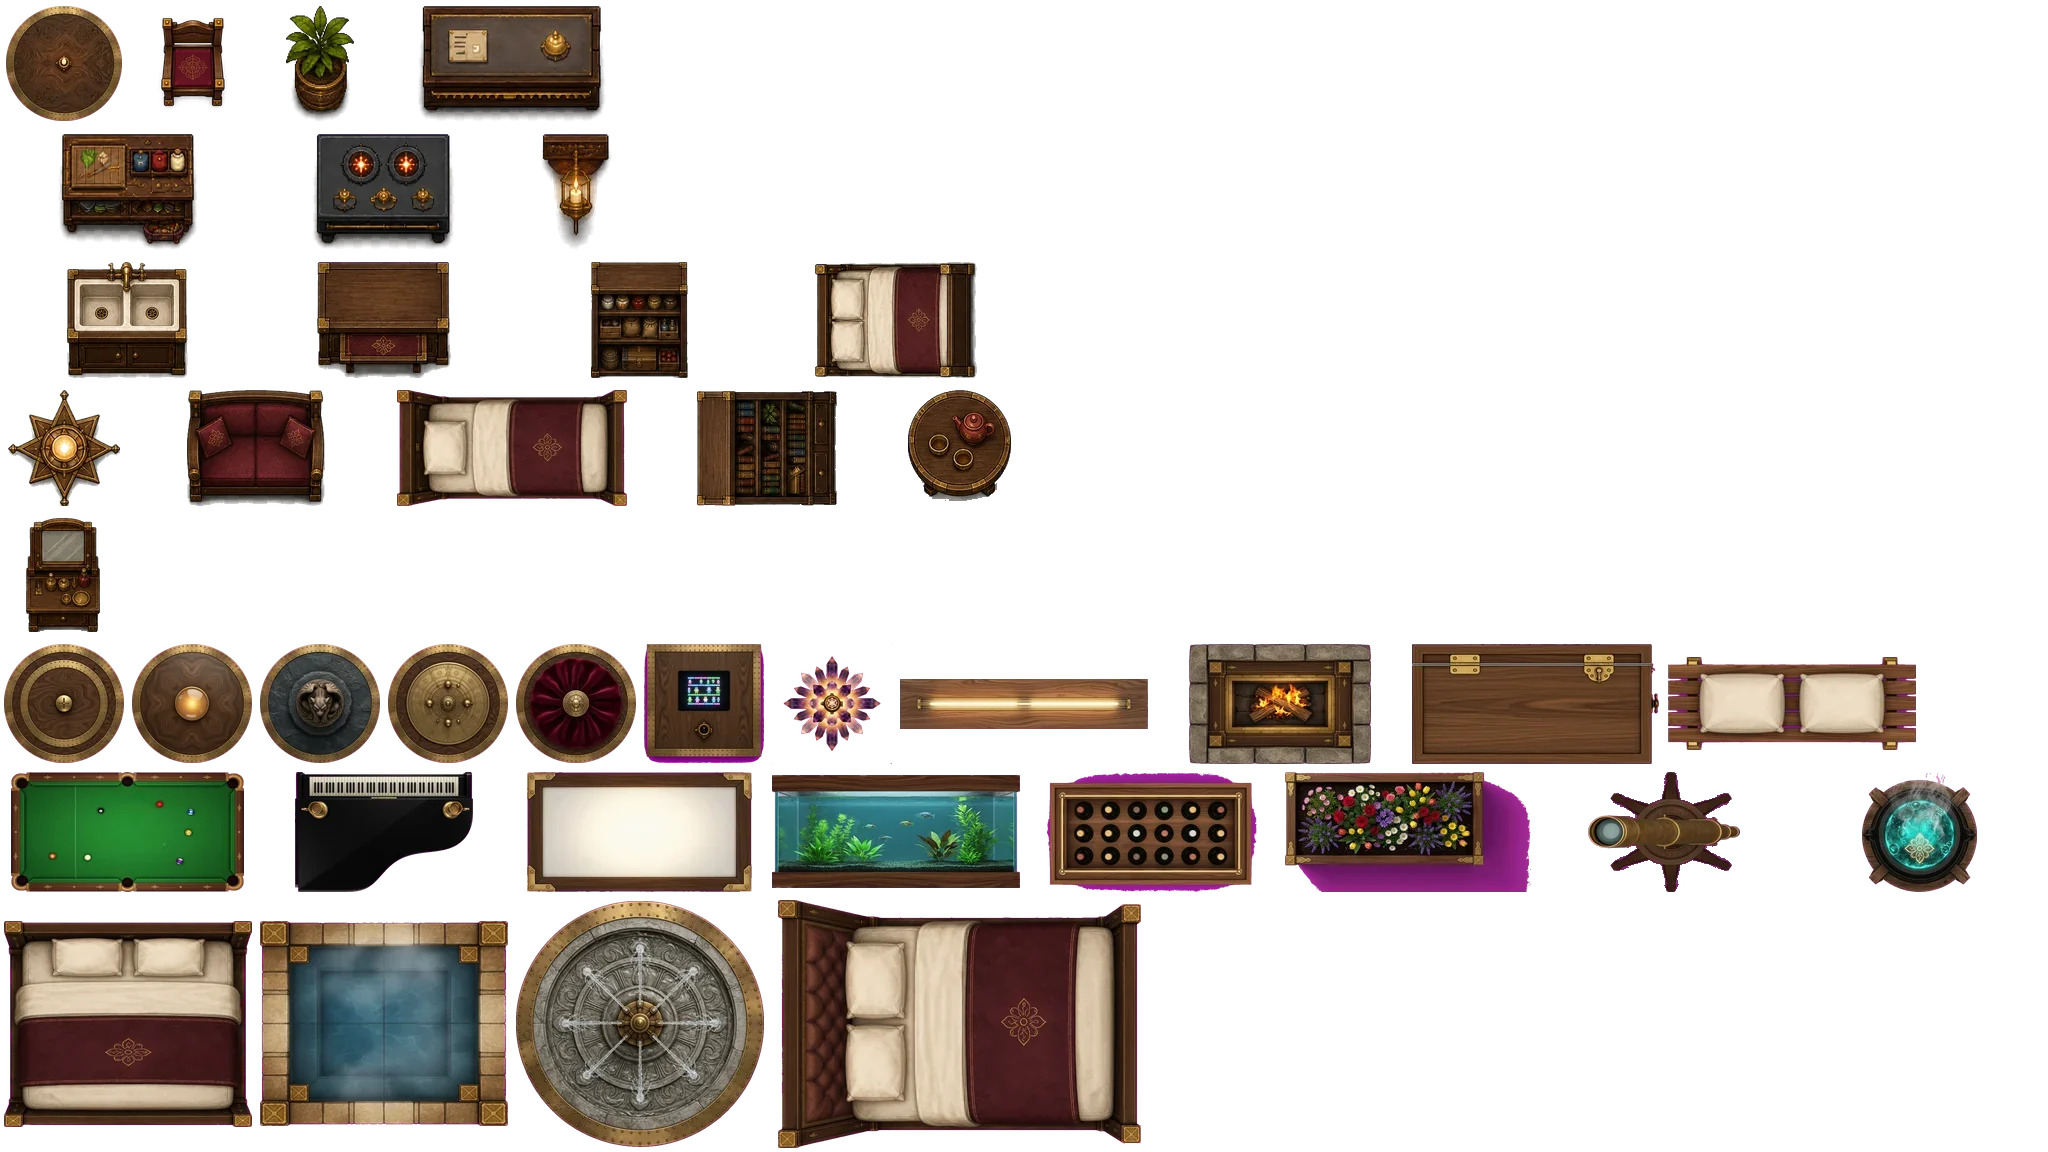
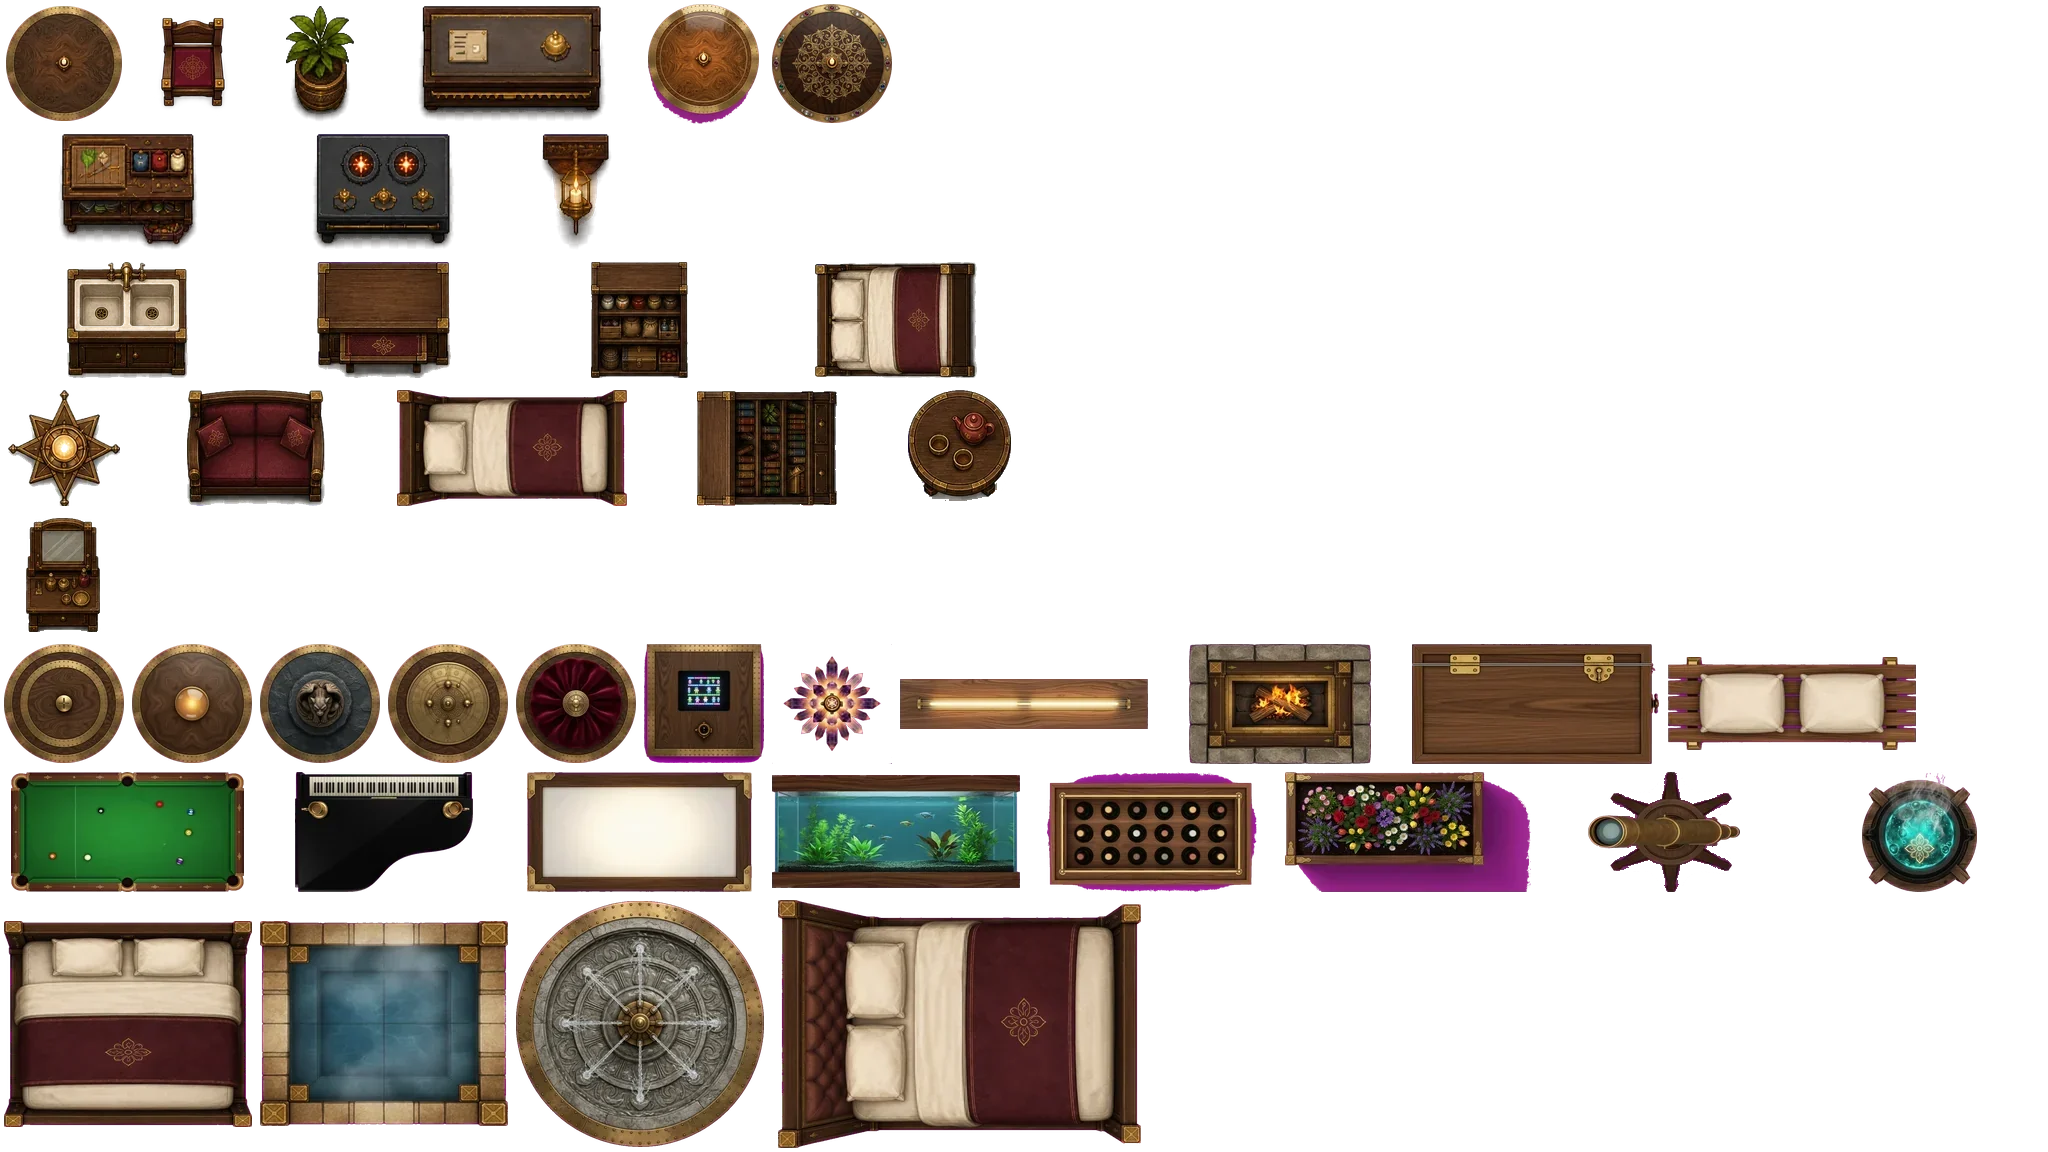
fix: upgrade HD furniture on the sprite, not with gold frames
Quality II/III now swaps to the same-design deluxe table textures, or adds a silhouette sheen and candle glow on the original HD art. Room upgrades stay on the HD floor/beam materials. The square brass corner overlay is gone.

Changed region(s): [[0.3125, 0.0, 0.4375, 0.125]]

diff --git a/game.js b/game.js
@@ -1,6 +1,6 @@
 import * as PIXI from 'pixi.js';
 import { ACC_NAMES,                  appKey, avatarURL, defaultAppearance, drawAvatar, drawSprite, normalizeApp,            PRESETS, randomAppearance, THEMES } from './src/chargen.js';
-import { furnPix, dirtPix, doorPix, equipAnimPix, hdQualityHardware, platePix, ROOM_WALL, T, wallPix } from './src/furniture.js';
+import { furnPix, dirtPix, doorPix, equipAnimPix, platePix, ROOM_WALL, T, wallPix } from './src/furniture.js';
 
 const ACTOR_S = 0.5;          // 世界里的小人按 50% 画（美术画布 64×72 → 场内 32×36）
 import { FLOOR_VARIANTS, floorVariant, glowPix, lightPoolPix, rugTile, wallDecoPix } from './src/floor.js';
@@ -113,7 +113,8 @@ function actorTexture(app            , dir        , pose      , frame        , c
 }
 const furnTex = new Map                      ();
 const FURNITURE_ATLAS_FRAMES = {
-  table: [0, 0, 128, 128], chair: [128, 0, 128, 128], plant: [256, 0, 128, 128],
+  table: [0, 0, 128, 128], table2: [640, 0, 128, 128], table3: [768, 0, 128, 128],
+  chair: [128, 0, 128, 128], plant: [256, 0, 128, 128],
   desk: [384, 0, 256, 128], prep: [0, 128, 256, 128], stove: [256, 128, 256, 128],
   sconce: [512, 128, 128, 128],
   sink: [0, 256, 256, 128], pass: [256, 256, 256, 128], shelf: [512, 256, 256, 128], bed: [768, 256, 256, 128],
@@ -129,10 +130,11 @@ const FURNITURE_ATLAS_FRAMES = {
   doublebed: [0, 896, 256, 256], pool: [256, 896, 256, 256], fountain: [512, 896, 256, 256],
   kingbed: [768, 896, 384, 256],
 };
-function furnitureAtlasTexture(kind, atlas) {
-  const frame = FURNITURE_ATLAS_FRAMES[kind];
+function furnitureAtlasTexture(kind, atlas, quality = 1) {
+  // 高清升级：有同款豪华帧就换贴图（table2/table3），否则回落基础帧再叠轮廓光。
+  const frame = (quality >= 2 && FURNITURE_ATLAS_FRAMES[kind + quality]) || FURNITURE_ATLAS_FRAMES[kind];
   if (!atlas || !frame) return null;
-  const key = `atlas|${kind}`;
+  const key = `atlas|${kind}|${quality}|${frame.join(',')}`;
   let t = furnTex.get(key);
   if (!t) {
     t = new PIXI.Texture({ source: atlas.source, frame: new PIXI.Rectangle(...frame) });
@@ -141,7 +143,7 @@ function furnitureAtlasTexture(kind, atlas) {
   return t;
 }
 function furnTexture(kind        , q        , accent = '#C9922F', atlas = null)               {
-  const hd = furnitureAtlasTexture(kind, atlas);
+  const hd = furnitureAtlasTexture(kind, atlas, q);
   if (hd) return hd;
   const key = kind + q + accent;
   let t = furnTex.get(key);
@@ -2279,35 +2281,7 @@ class Game                    {
           wall.rect(cx * T + 8, cy * T + 8, 3, 3).fill(0xF3D98A);
         }
       }
-      if (r.quality >= 2 && this.materialPack === 'hd') {
-        const rail = beamStrip(r.x + r.y);
-        const gold = r.quality >= 3 ? 0xF3D98A : 0xC9922F;
-        const placeRail = (x, y, rot, len = T) => {
-          if (!rail) return;
-          const trim = new PIXI.Sprite(rail);
-          trim.anchor.set(0.5); trim.width = len; trim.height = r.quality >= 3 ? 4 : 3;
-          trim.rotation = rot; trim.x = x; trim.y = y; trim.tint = gold;
-          this.wallSprites.addChild(trim);
-        };
-        for (let x = r.x; x < r.x + r.w; x++) {
-          if ((!this.tavern.roomAt(x, r.y - 1) || gap(x, r.y, 0, -1)) && !gap(x, r.y, 0, -1)) placeRail(x * T + T / 2, r.y * T + 10, 0);
-          if ((!this.tavern.roomAt(x, r.y + r.h) || gap(x, r.y + r.h - 1, 0, 1)) && !gap(x, r.y + r.h - 1, 0, 1)) placeRail(x * T + T / 2, (r.y + r.h) * T - 10, 0);
-        }
-        for (let y = r.y; y < r.y + r.h; y++) {
-          if ((!this.tavern.roomAt(r.x - 1, y) || gap(r.x, y, -1, 0)) && !gap(r.x, y, -1, 0)) placeRail(r.x * T + 10, y * T + T / 2, Math.PI / 2);
-          if ((!this.tavern.roomAt(r.x + r.w, y) || gap(r.x + r.w - 1, y, 1, 0)) && !gap(r.x + r.w - 1, y, 1, 0)) placeRail((r.x + r.w) * T - 10, y * T + T / 2, Math.PI / 2);
-        }
-        if (r.quality >= 3) {
-          const boss = glowTex(7, '#F3D98A');
-          for (const [cx, cy] of [[r.x, r.y], [r.x + r.w, r.y], [r.x, r.y + r.h], [r.x + r.w, r.y + r.h]]) {
-            const med = new PIXI.Sprite(boss);
-            med.anchor.set(0.5); med.alpha = 0.9;
-            med.x = cx * T + (cx === r.x ? 10 : -10);
-            med.y = cy * T + (cy === r.y ? 10 : -10);
-            this.wallSprites.addChild(med);
-          }
-        }
-      }
+
     }
     // 门厅入口只在真正朝向室外时补门槛；与上方房间相连时由普通门系统处理。
     const e = this.tavern.entrance();
@@ -2331,10 +2305,12 @@ class Game                    {
       // 实例级微色差：同种家具不再千件一面（色相暖冷 4 档抖动）
       const jit = [0xFFFFFF, 0xF7EEE0, 0xFFF6E4, 0xEFF2F4][((f.id * 2654435761) >>> 0) % 4];
       const base = hexToNum(fstyle.furnTint);
+      const deluxeHd = hdFurniture && f.quality >= 2 && !!FURNITURE_ATLAS_FRAMES[f.kind + f.quality];
       if (hdFurniture) {
-        const qHex = f.quality >= 3 ? '#E8C070' : f.quality >= 2 ? '#F2D9A0' : '#FFFFFF';
         const styleHex = fstyle.id !== 'rustic' ? mix('#FFFFFF', fstyle.furnTint, 0.58) : '#FFFFFF';
-        const merged = mix(styleHex, qHex, f.quality >= 2 ? 0.55 : 0);
+        // 豪华帧自己已是升级材质，不再额外镀金；无豪华帧时只轻微暖一下原贴图。
+        const qHex = deluxeHd ? '#FFFFFF' : (f.quality >= 3 ? '#F0D090' : f.quality >= 2 ? '#F6E4B8' : '#FFFFFF');
+        const merged = mix(styleHex, qHex, deluxeHd ? 0 : (f.quality >= 2 ? 0.28 : 0));
         if (merged !== '#FFFFFF') sp.tint = hexToNum(merged);
       } else {
         sp.tint = (((base >> 16 & 255) * (jit >> 16 & 255) / 255) << 16) | (((base >> 8 & 255) * (jit >> 8 & 255) / 255) << 8) | Math.round((base & 255) * (jit & 255) / 255);
@@ -2350,20 +2326,28 @@ class Game                    {
       sp.zIndex = Math.round((f.y + fh) * 100) - 5;
       this.actorLayer.addChild(sp);
       this.furnSprites.push(sp);
-      if (hdFurniture && f.quality >= 2) {
-        const hwKey = `hdq|${sourceW}|${sourceH}|${f.quality}`;
-        let hwTex = this.pixTex.get(hwKey);
-        if (!hwTex) {
-          hwTex = texFromCanvas(hdQualityHardware(sourceW, sourceH, f.quality).canvas);
-          this.pixTex.set(hwKey, hwTex);
-        }
-        const hw = new PIXI.Sprite(hwTex);
-        hw.anchor.set(0.5);
-        hw.x = sp.x; hw.y = sp.y; hw.rotation = sp.rotation;
-        hw.width = sourceW * T; hw.height = sourceH * T;
-        hw.zIndex = sp.zIndex + 1;
-        this.actorLayer.addChild(hw);
-        this.furnSprites.push(hw);
+      if (hdFurniture && f.quality >= 2 && !deluxeHd) {
+        const sheen = new PIXI.Sprite(sp.texture);
+        sheen.anchor.set(0.5);
+        sheen.x = sp.x; sheen.y = sp.y; sheen.rotation = sp.rotation;
+        sheen.width = sp.width; sheen.height = sp.height;
+        sheen.blendMode = 'add';
+        sheen.tint = f.quality >= 3 ? 0xE8C070 : 0xC9A050;
+        sheen.alpha = f.quality >= 3 ? 0.22 : 0.12;
+        sheen.zIndex = sp.zIndex + 1;
+        this.actorLayer.addChild(sheen);
+        this.furnSprites.push(sheen);
+      }
+      if (hdFurniture && f.quality >= 2 && (f.kind === 'table' || f.kind === 'teatable')) {
+        const candle = new PIXI.Sprite(glowTex(12 + f.quality * 3, f.quality >= 3 ? '#F6D080' : '#E8B44A'));
+        candle.anchor.set(0.5);
+        candle.blendMode = 'add';
+        candle.alpha = f.quality >= 3 ? 0.38 : 0.24;
+        candle.x = sp.x;
+        candle.y = sp.y;
+        candle.zIndex = sp.zIndex + 2;
+        this.actorLayer.addChild(candle);
+        this.furnSprites.push(candle);
       }
       const shadow = contactShadow(f.kind, fw, fh, T);
       if (shadow) {

diff --git a/src/furniture.js b/src/furniture.js
@@ -5,39 +5,6 @@ import { ao, cloth, disc3, liquid, mat, metal, planks, plate, stone, useEdge } f
 
 export const T = 32; // 每格像素
 
-/** 高清家具品质件：同一俯视模型上叠黄铜包角，II 抛光、III 金边，旋转不穿帮。 */
-export function hdQualityHardware(fw, fh, quality) {
-  const w = Math.max(T, fw * T), h = Math.max(T, fh * T);
-  const p = new Pix(w, h);
-  if (quality < 2) return p;
-  const brass = quality >= 3 ? '#F3D98A' : '#C9922F';
-  const dark = quality >= 3 ? '#8A5A18' : '#6A4216';
-  const inset = 2;
-  const arm = Math.max(6, Math.round(Math.min(w, h) * 0.2));
-  const corners = [
-    [inset, inset, 1, 1],
-    [w - 1 - inset, inset, -1, 1],
-    [inset, h - 1 - inset, 1, -1],
-    [w - 1 - inset, h - 1 - inset, -1, -1],
-  ];
-  for (const [x, y, sx, sy] of corners) {
-    const hx = sx < 0 ? x - arm : x;
-    const vy = sy < 0 ? y - arm : y;
-    p.rect(hx, y, arm + 1, 3, dark);
-    p.rect(x, vy, 3, arm + 1, dark);
-    p.rect(hx, y + (sy < 0 ? 1 : 0), arm + 1, 1, brass);
-    p.rect(x + (sx < 0 ? 1 : 0), vy, 1, arm + 1, brass);
-    p.px(x, y, quality >= 3 ? PAL.cream : brass);
-  }
-  if (quality >= 3) {
-    p.rect(inset + 1, inset + 1, w - inset * 2 - 2, 1, mix(brass, '#FFFFFF', 0.25));
-    p.rect(inset + 1, h - 2 - inset, w - inset * 2 - 2, 1, mix(brass, '#FFFFFF', 0.25));
-    p.rect(inset + 1, inset + 1, 1, h - inset * 2 - 2, mix(brass, '#FFFFFF', 0.25));
-    p.rect(w - 2 - inset, inset + 1, 1, h - inset * 2 - 2, mix(brass, '#FFFFFF', 0.25));
-  }
-  return p;
-}
-
 const WOOD = mat('#9B5B3C');
 const WOOD_DARK = mat('#6E3C27');
 const WOOD_WARM = mat('#B5763F');
